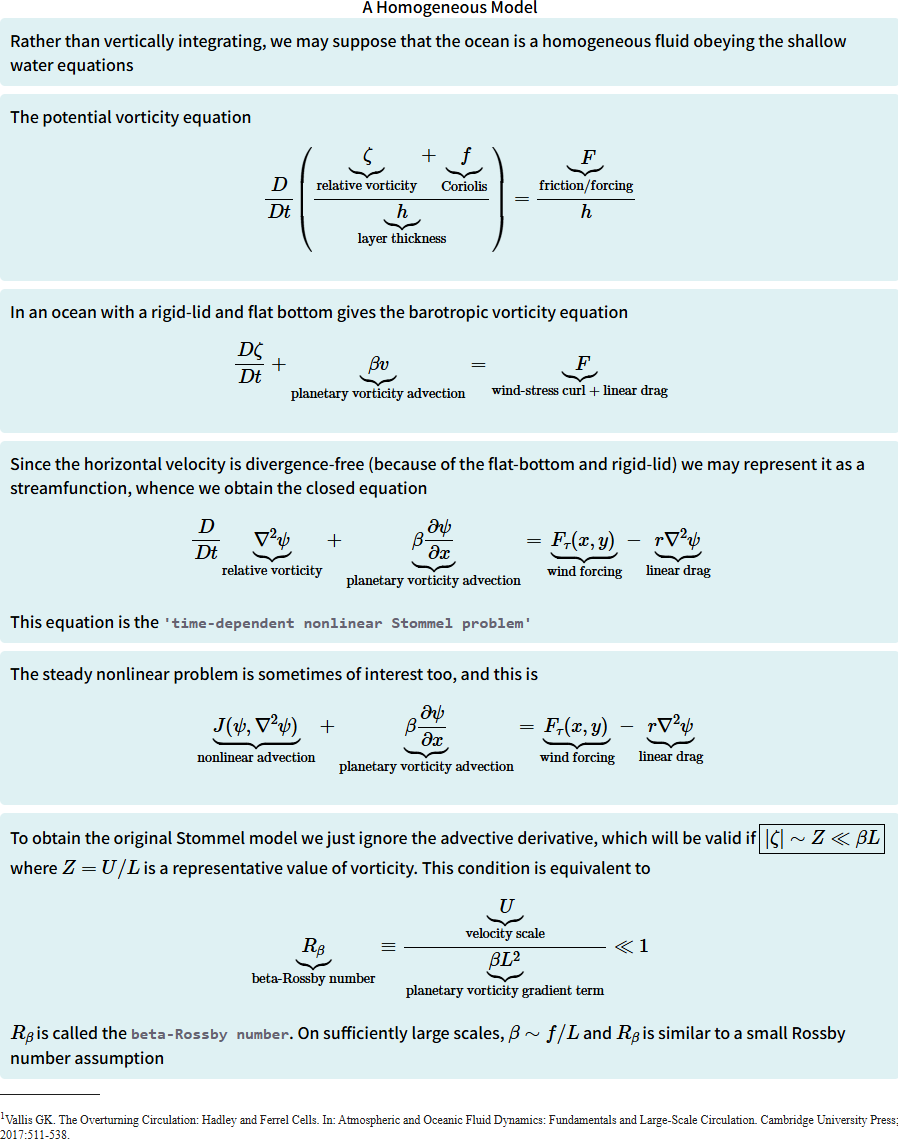
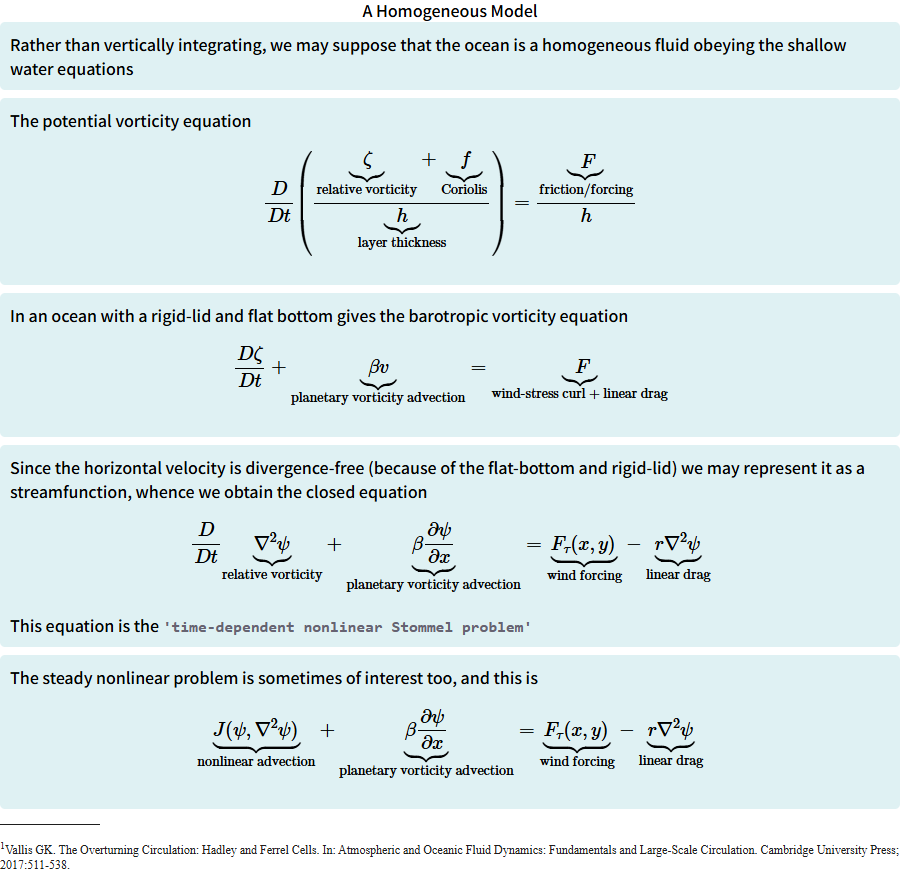
Update

Changed region(s): [[0.0, 0.0, 1.0, 1.0]]

diff --git a/Lecture5BSlide14.html b/Lecture5BSlide14.html
@@ -153,16 +153,52 @@ window.addEventListener('resize', scaleContainer);
 </head>
 <body>
     <div class="container">
-        <div class="title">A Homogeneous Model</div>
+        <div class="title">Quasi-Geostrophic Formulation</div>
 
 <div class="description">
-To obtain the original Stommel model we just ignore the advective derivative, which will be valid if $\boxed{|\zeta| \sim Z \ll \beta L}$ where $Z = U/L$ is a representative value of vorticity. This condition is equivalent to
+If we neglect the advective derivative and vertically integrate
 $$
-\underbrace{R_\beta}_{\text{beta-Rossby number}} 
-\equiv \frac{\underbrace{U}_{\text{velocity scale}}}{\underbrace{\beta L^2}_{\text{planetary vorticity gradient term}}} \ll 1
+\beta \int_{\underbrace{B}_{\text{bottom}}}^{\overbrace{T}^{\text{top}}} v \, dz 
+= f_0 [w]_B^T + \text{curl}_z[\boldsymbol{\tau}]_B^T
 $$
-$R_\beta$ is called the <span class="sql">beta-Rossby number</span>. On sufficiently large scales, $\beta \sim f/L$ and \(R_\beta\) is similar to a small Rossby number assumption
 </div>
+<p>
+We now make one of two virtually equivalent
+choices
+<ul class="custom-list">
+    <li>Suppose that the integration is over the entire depth of the ocean, the term $[w]_B^T$ vanishes given a rigid lid and a flat bottom. If the stress at the top of the ocean is given by the wind stress, and at the bottom of the ocean it is parameterized by a linear drag
+        $$
+\beta \overbrace{\underbrace{\bar{v}}_{\partial \psi / \partial x}}^{\text{vertical integral}} 
+= F_\tau(x,y) - r \overbrace{\underbrace{\bar{\zeta}}_{\nabla^2 \psi}}^{\text{vertical integral}} \Rightarrow r \nabla^2 \psi + \beta \frac{\partial \psi}{\partial x} = F_\tau(x,y)
+$$
+    </li>
+    <li>Suppose that the integration is between two thin Ekman layers at the top and bottom of
+the ocean. The stress is zero at the interior edge of these layers, but the vertical velocity is
+not.
+At the base of the upper Ekman layer, at $z = -\overbrace{\delta_T}^{\text{upper Ekman thickness}}$, the vertical velocity is
+$$
+w(x,y,-\delta_T) = \text{curl}_z (\boldsymbol{\tau}_T/f_0)
+$$
+where the top of the ocean is at $z=0$<br>
+At the top of the lower Ekman layer, the vertical velocity is
+$$
+w(x,y,-H+\underbrace{\delta_B}_{\text{bottom Ekman thickness}}) = \delta_B \bar{\zeta}
+$$ where $z=-H$ at the ocean bottom<br>
+Neglecting the advective derivative, and integrating over the ocean between the two Ekman layers, \(\boxed{\frac{D\zeta}{Dt} + \beta v = f_0 \frac{\partial w}{\partial z} + \text{curl}_z \frac{\partial \boldsymbol{\tau}}{\partial z}}\) becomes
+$$
+\beta \bar{v} = \text{curl}_z \boldsymbol{\tau}_T - f_0 \delta_B \bar{\zeta} 
+= \text{curl}_z \boldsymbol{\tau}_T
+- \underbrace{f_0 \delta_B \bar{\zeta}/H}_{\text{assume bottom drag using vertically integrated vorticity} \bar{\zeta}}
+$$
+Defining the drag coefficient $r$ by $r=f_0\delta_B/H$, and introducing a streamfunction gives
+
+$$
+r \nabla^2 \psi + \beta \frac{\partial \psi}{\partial x} = \text{curl}_z \boldsymbol{\tau}_T
+$$
+</li>
+</ul>
+
+</p>
 
 
 
@@ -181,10 +217,9 @@ $R_\beta$ is called the <span class="sql">beta-Rossby number</span>. On sufficie
 
 
 
-
         <!-- Navigation Buttons -->
-        <a href="Lecture5BSlide11.html" class="nav-button left">&#9664;</a>
-        <a href="Lecture5BSlide13.html" class="nav-button right">&#9654;</a>
+        <a href="Lecture5BSlide13.html" class="nav-button left">&#9664;</a>
+        <a href="Lecture5BSlide15.html" class="nav-button right">&#9654;</a>
     </div>
 </body>
 </html>

diff --git a/Lecture5BSlide13.html b/Lecture5BSlide13.html
@@ -153,16 +153,30 @@ window.addEventListener('resize', scaleContainer);
 </head>
 <body>
     <div class="container">
-        <div class="title">A Homogeneous Model</div>
+        <div class="title">Quasi-Geostrophic Formulation</div>
 
 <div class="description">
-To obtain the original Stommel model we just ignore the advective derivative, which will be valid if $\boxed{|\zeta| \sim Z \ll \beta L}$ where $Z = U/L$ is a representative value of vorticity. This condition is equivalent to
-$$
-\underbrace{R_\beta}_{\text{beta-Rossby number}} 
-\equiv \frac{\underbrace{U}_{\text{velocity scale}}}{\underbrace{\beta L^2}_{\text{planetary vorticity gradient term}}} \ll 1
-$$
-$R_\beta$ is called the <span class="sql">beta-Rossby number</span>. On sufficiently large scales, $\beta \sim f/L$ and \(R_\beta\) is similar to a small Rossby number assumption
+In the planetary-geostrophic formulation, the horizontal velocity is divergence-free only because we have vertically integrated. If the scales of motion are not too large the horizontal flow at every level is divergence-free for another reason: because it is in geostrophic balance
 </div>
+
+<div class="description">
+In reality, over a single oceanic gyre (say from 15° to 40° latitude), variations in Coriolis parameter are not large, and this prompts us to formulate the model in terms of the quasi-geostrophic equations.
+An
+advantage of the quasi-geostrophic equations is that they readily allow for the inclusion of both
+nonlinearity and stratification
+</div>
+
+<div class="description">
+Such a model would  be restricted to length scales, $L$, of no more than $O(Ro^{-1})$ larger than the deformation radius, and for gyre scales this criterion is marginally satisfied if $L_d = 100 \, \mathrm{km}$
+</div>
+
+<div class="description">
+The quasi-geostrophic vorticity equation for a Boussinesq system is
+\[
+\frac{D\zeta}{Dt} + \beta v 
+= f_0 \frac{\partial w}{\partial z} 
++ \text{curl}_z \frac{\partial \boldsymbol{\tau}}{\partial z}
+\]</div>
 
 
 
@@ -181,10 +195,9 @@ $R_\beta$ is called the <span class="sql">beta-Rossby number</span>. On sufficie
 
 
 
-
         <!-- Navigation Buttons -->
-        <a href="Lecture5BSlide11.html" class="nav-button left">&#9664;</a>
-        <a href="Lecture5BSlide13.html" class="nav-button right">&#9654;</a>
+        <a href="Lecture5BSlide12.html" class="nav-button left">&#9664;</a>
+        <a href="Lecture5BSlide14.html" class="nav-button right">&#9654;</a>
     </div>
 </body>
 </html>

diff --git a/Lecture5BSlide15.html b/Lecture5BSlide15.html
@@ -153,21 +153,13 @@ window.addEventListener('resize', scaleContainer);
 </head>
 <body>
     <div class="container">
-        <div class="title">A Homogeneous Model</div>
+        <div class="title">Approximate Solution of Stommel Model</div>
 
 <div class="description">
-To obtain the original Stommel model we just ignore the advective derivative, which will be valid if $\boxed{|\zeta| \sim Z \ll \beta L}$ where $Z = U/L$ is a representative value of vorticity. This condition is equivalent to
-$$
-\underbrace{R_\beta}_{\text{beta-Rossby number}} 
-\equiv \frac{\underbrace{U}_{\text{velocity scale}}}{\underbrace{\beta L^2}_{\text{planetary vorticity gradient term}}} \ll 1
-$$
-$R_\beta$ is called the <span class="sql">beta-Rossby number</span>. On sufficiently large scales, $\beta \sim f/L$ and \(R_\beta\) is similar to a small Rossby number assumption
+The Stommel model
 </div>
 
-
-
-
-
+<p>Sverdrup balance provides a useful, if not impregnable, foundation on which to build</p>
 
 
 
@@ -181,10 +173,9 @@ $R_\beta$ is called the <span class="sql">beta-Rossby number</span>. On sufficie
 
 
 
-
         <!-- Navigation Buttons -->
-        <a href="Lecture5BSlide11.html" class="nav-button left">&#9664;</a>
-        <a href="Lecture5BSlide13.html" class="nav-button right">&#9654;</a>
+        <a href="Lecture5BSlide14.html" class="nav-button left">&#9664;</a>
+        <a href="Lecture5BSlide16.html" class="nav-button right">&#9654;</a>
     </div>
 </body>
 </html>

diff --git a/Lecture5BSlide11.html b/Lecture5BSlide11.html
@@ -197,20 +197,6 @@ $$
 $$
 </div>
 
-<div class="description">
-To obtain the original Stommel model we just ignore the advective derivative, which will be valid if $\boxed{|\zeta| \sim Z \ll \beta L}$ where $Z = U/L$ is a representative value of vorticity. This condition is equivalent to
-$$
-\underbrace{R_\beta}_{\text{beta-Rossby number}} 
-\equiv \frac{\underbrace{U}_{\text{velocity scale}}}{\underbrace{\beta L^2}_{\text{planetary vorticity gradient term}}} \ll 1
-$$
-$R_\beta$ is called the <span class="sql">beta-Rossby number</span>. On sufficiently large scales, $\beta \sim f/L$ and \(R_\beta\) is similar to a small Rossby number assumption
-</div>
-
-
-
-
-
-
 
 
         <div class="footnote-container">
@@ -219,8 +205,6 @@ $R_\beta$ is called the <span class="sql">beta-Rossby number</span>. On sufficie
                 <sup>1</sup>Vallis GK. The Overturning Circulation: Hadley and Ferrel Cells. In: Atmospheric and Oceanic Fluid Dynamics: Fundamentals and Large-Scale Circulation. Cambridge University Press; 2017:511-538.
             </p>
         </div>
-
-
 
 
 
